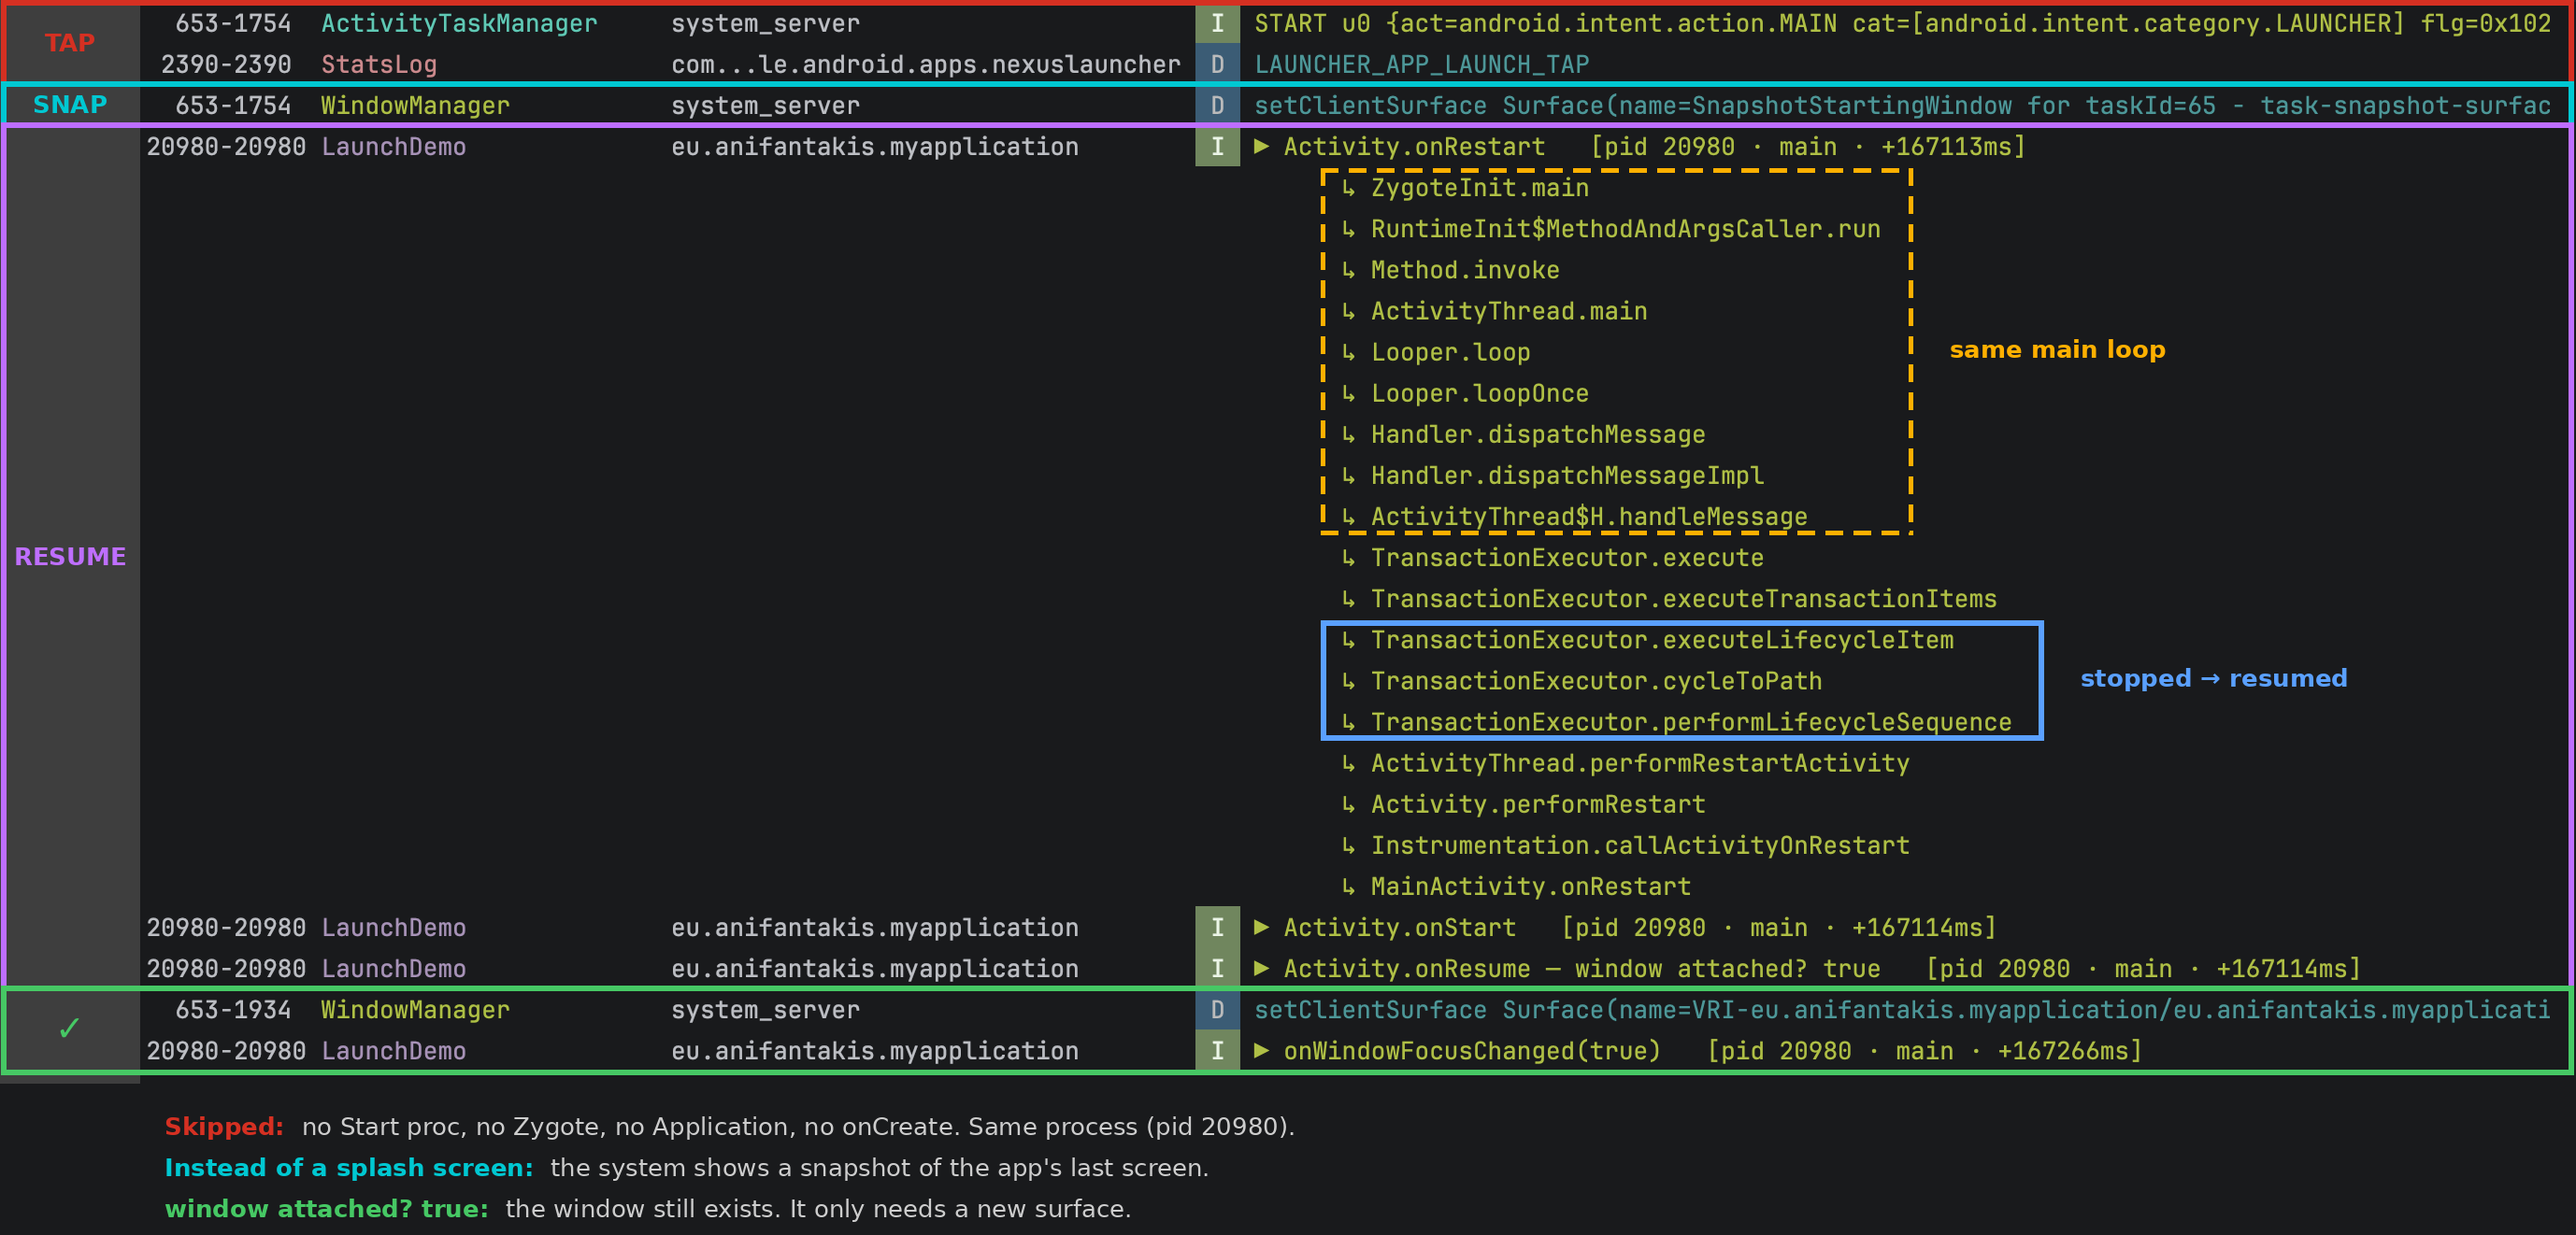
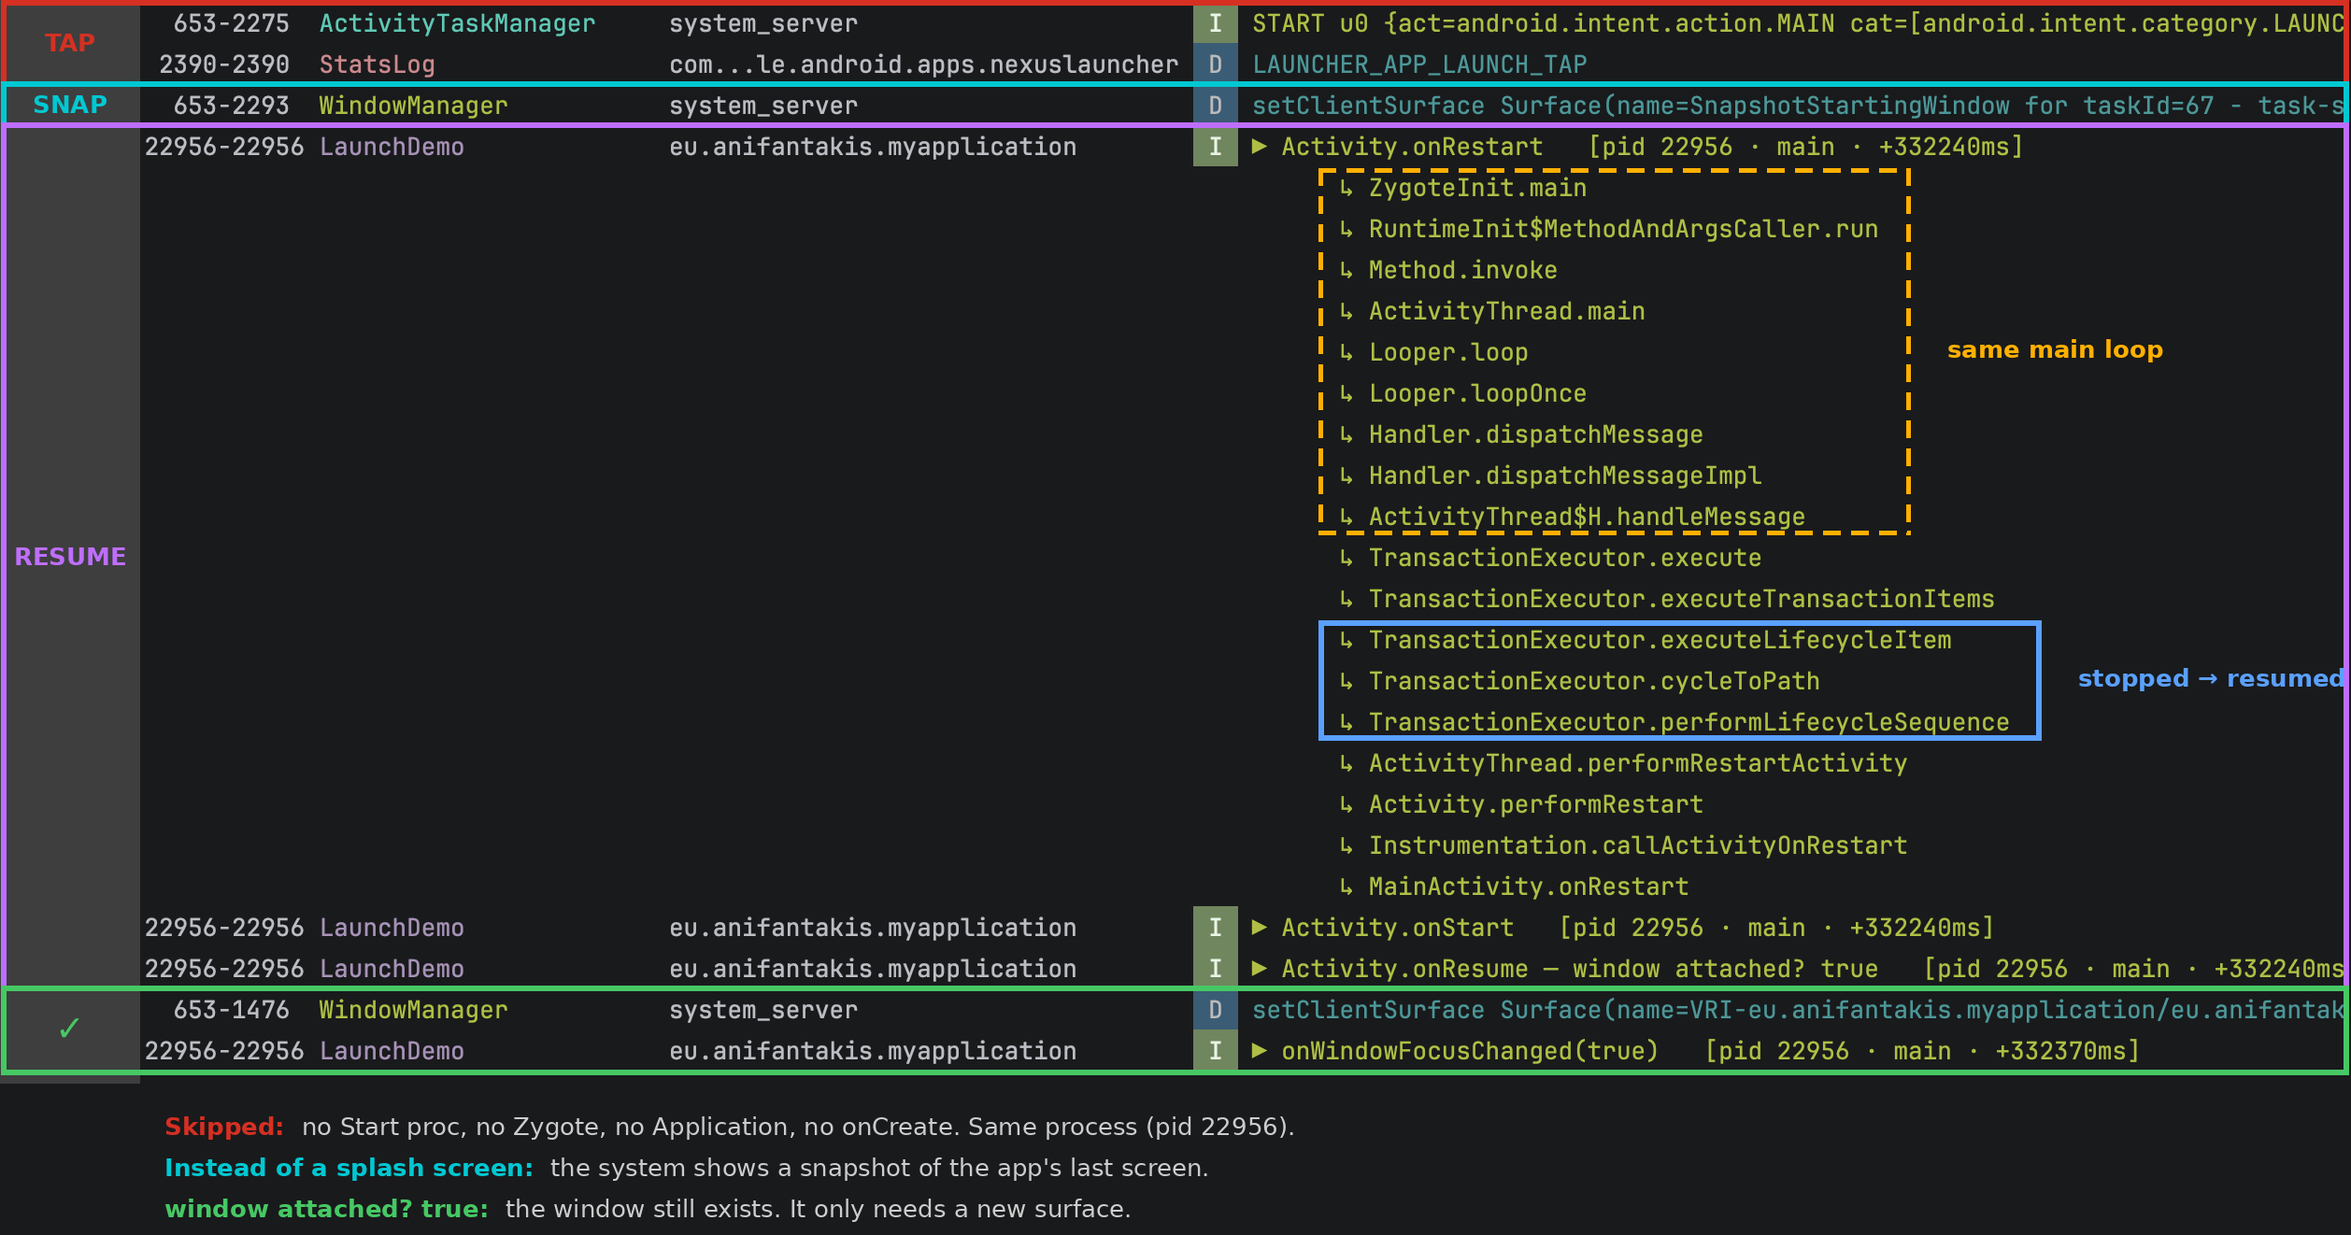
update MainActivity.kt and README.md to enhance lifecycle logging and documentation

Changed region(s): [[0.0, 0.0, 1.0, 0.8684], [0.062, 0.8994, 0.558, 0.9924], [0.744, 0.2791, 0.93, 0.3101]]

diff --git a/app/src/main/java/eu/anifantakis/myapplication/MainActivity.kt b/app/src/main/java/eu/anifantakis/myapplication/MainActivity.kt
@@ -33,7 +33,8 @@ class MainActivity : ComponentActivity() {
     override fun onCreate(savedInstanceState: Bundle?) {
         super.onCreate(savedInstanceState)
         // Path = Step 5: H.handleMessage → TransactionExecutor → LaunchActivityItem → performLaunchActivity → … → onCreate
-        LaunchTrace.mark("Activity.onCreate", showPath = true)
+        // "saved state? true" = the Activity is being re-created (rotation, or a warm start)
+        LaunchTrace.mark("Activity.onCreate — saved state? ${savedInstanceState != null}", showPath = true)
         enableEdgeToEdge()
         setContent {
             var loaded by remember { mutableStateOf(false) }
@@ -60,6 +61,14 @@ class MainActivity : ComponentActivity() {
     override fun onResume()  { super.onResume();  LaunchTrace.mark("Activity.onResume — window attached? ${window.decorView.isAttachedToWindow}") }
     override fun onPause()   { LaunchTrace.mark("Activity.onPause"); super.onPause() }
     override fun onStop()    { LaunchTrace.mark("Activity.onStop — surface will be released"); super.onStop() }
+
+    // Never printed when the process is killed (swipe, force stop, low memory).
+    // Printed when the system destroys only the Activity: rotation, finish(), "Don't keep activities".
+    override fun onDestroy() {
+        LaunchTrace.mark("Activity.onDestroy — config change? $isChangingConfigurations · finishing? $isFinishing", showPath = true)
+        super.onDestroy()
+    }
+
     override fun onWindowFocusChanged(hasFocus: Boolean) {
         super.onWindowFocusChanged(hasFocus); LaunchTrace.mark("onWindowFocusChanged($hasFocus)")
     }

diff --git a/app/src/main/java/eu/anifantakis/myapplication/MyApplication.kt b/app/src/main/java/eu/anifantakis/myapplication/MyApplication.kt
@@ -1,11 +1,7 @@
 package eu.anifantakis.myapplication
 
 import android.app.Application
-import android.content.ContentProvider
-import android.content.ContentValues
 import android.content.Context
-import android.database.Cursor
-import android.net.Uri
 
 class MyApplication : Application() {
 

diff --git a/README.md b/README.md
@@ -1,8 +1,8 @@
 # Android Launch Lifecycle Demo
 
-A small app that shows what happens to an app process during its life: **cold start, background, hot
-start, and death**. The app logs each step with the tag `LaunchDemo`. One Logcat filter mixes these lines
-with Android's own lines, in order.
+A small app that shows what happens to an app process during its life: **cold start, rotation, background,
+hot start, and death**. The app logs each step with the tag `LaunchDemo`. One Logcat filter mixes these
+lines with Android's own lines, in order.
 
 ## How to run it
 
@@ -11,9 +11,10 @@ with Android's own lines, in order.
 3. Stop the app: `adb shell am force-stop eu.anifantakis.myapplication`
 4. Clear Logcat.
 5. Tap the app icon → **cold start**.
-6. Press Home → **background**.
-7. Tap the icon again → **hot start**.
-8. Open Recents and swipe the app away → **killed**.
+6. Rotate the screen → **the Activity is re-created**.
+7. Press Home → **background**.
+8. Tap the icon again → **hot start**.
+9. Open Recents and swipe the app away → **killed**.
 
 > Tap the icon instead of pressing Run. Run reinstalls the app and starts it from the shell, not from the launcher.
 
@@ -42,7 +43,7 @@ All screenshots come from one session on an Android 17 (API 37) emulator, with `
 | `653` | `system_server`: ActivityTaskManager (ATMS), ActivityManager (AMS), WindowManager |
 | `433` | `zygote64`: the parent of every app process |
 | `2390` | The launcher (home screen and Recents) |
-| `20980` | The app |
+| `22956` | The app |
 
 ## 1. Cold start
 
@@ -56,24 +57,24 @@ Red **1–5** are the steps. Amber **3** is the main loop, inside the call paths
 - `LAUNCHER_APP_LAUNCH_TAP` — the launcher's own line. It comes *after* `START`, because the Binder call is
   synchronous. Logcat shows when a line was written, not when the work started.
 
-**2 · Create the process**
-- `Forked child process 20980` — Zygote (`433`) forks itself. Copy-on-Write makes this fast.
-- `Created cgroup …/pid_20980` — the PID is now `20980`: the child writes this itself, while it gets its own
+**2 · The identity: create the process**
+- `Forked child process 22956` — Zygote (`433`) forks itself. Copy-on-Write makes this fast.
+- `Created cgroup …/pid_22956` — the PID is now `22956`: the child writes this itself, while it gets its own
   identity (uid, SELinux label, storage, name). This is *specialization*.
-- `Start proc 20980:…/u0a233` — AMS logs when Zygote sends back the pid. `u0a233` = user 0, uid `10233`.
+- `Start proc 22956:…/u0a233` — AMS logs when Zygote sends back the pid. `u0a233` = user 0, uid `10233`.
   Each process logs on its own, so this line can come after the child's lines.
-- `Process 20980 created for …` — specialization is done.
+- `Process 22956 created for …` — specialization is done.
 - `setClientSurface … Splash Screen` — the system draws the splash screen at the same time.
 - `Using … CollectorTypeCMC GC.` — the first line with the app's own name as the tag.
 
-About 40 ms from `START` to a ready process. The rest of a cold start is initialization.
+Only a few dozen milliseconds from `START` to a ready process. The rest of a cold start is initialization.
 
 **3 · The heartbeat** (amber box)
 The call path starts at `ZygoteInit.main`: the app still runs inside Zygote's `main()`, because there is no
 `exec()`. `Looper.loop` → `H.handleMessage`: the main thread runs a loop and gets its work as messages.
 There are no Binder frames: Binder threads only post messages to the main thread.
 
-**4 · bindApplication**
+**4 · The DNA: bindApplication**
 - `Configuring clns-9 for … base.apk` — the app's own code is loaded for the first time.
 - `▶ Application.attachBaseContext(ContextImpl@e6aa586)` — the system creates the `Application` and gives
   it its `Context`.
@@ -81,27 +82,42 @@ There are no Binder frames: Binder threads only post messages to the main thread
   use this to start early.
 - `▶ Application.onCreate` — your init code, before any Activity exists.
 
-**5 · Launch the Activity**
-- `▶ Activity.attachBaseContext(ContextImpl@c6d262f)` — a new `Context`, not the Application's.
-- `▶ Activity.onCreate` — the same main loop, then `TransactionExecutor` → `LaunchActivityItem`:
-  ATMS sent a transaction.
+**5 · The face: launch the Activity**
+- `▶ Activity.attachBaseContext(ContextImpl@c6d262f)` — a new `Context`, not the Application's (`@e6aa586`).
+- `▶ Activity.onCreate — saved state? false` — a brand-new Activity. The same main loop, then
+  `TransactionExecutor` → `LaunchActivityItem`: ATMS sent a transaction.
 - `▶ onStart`, `▶ onResume — window attached? false` — resumed, but not on screen yet.
 
 **✓ · On screen**
-- `setClientSurface … MainActivity` — the window gets its surface, about 320 ms after `onResume()`.
-- `Displayed +705ms` — the first frame (TTID, *time to initial display*).
-- `Fully drawn +1s139ms` — the app says its content is ready with `ReportDrawnWhen` (TTFD, *time to full display*).
+- `setClientSurface … MainActivity` — the window gets its surface, a few hundred ms after `onResume()`.
+- `Displayed +725ms` — the first frame (TTID, *time to initial display*).
+- `Fully drawn +1s157ms` — the app says its content is ready with `ReportDrawnWhen` (TTFD, *time to full display*).
 
-## 2. Press Home
+## 2. Rotate the screen
+
+![Rotation: the Activity is destroyed and created again in the same process](docs/rotation-steps.png)
+
+- **DESTROY** — `onPause()`, `onStop()`, then `onDestroy — config change? true · finishing? false`.
+  The path shows `ActivityRelaunchItem` → `handleRelaunchActivity` → `handleDestroyActivity`.
+- **CREATE** — the same `ActivityRelaunchItem` now goes to `handleLaunchActivity`: a new Activity, with a new
+  `ContextImpl` (`@9fa421d`), `saved state? true`, and a new window (`window attached? false`).
+- **✓** — the new window gets its surface and the focus.
+
+Same pid (`22956`): no `START`, no `Start proc`, no Zygote, no `Application`. The system replaces **only the
+Activity**, in one transaction. `onDestroy()` runs, and the new Activity gets the old one's saved state.
+That state is what `rememberSaveable` and `SavedStateHandle` keep for you.
+
+## 3. Press Home
 
 ![The Home button sends the app to the background: HOME, PAUSE, STOP](docs/home-steps.png)
 
-- **HOME** — `START … category.HOME … result code=2`: Home is just another start. The launcher is already
-  running, so its task is only brought to the front.
+- **HOME** — `START … category.HOME`: Home is just another start. The launcher is already running, so its
+  task is only brought to the front.
 - **PAUSE** — `onPause()` right away: the app lost the foreground.
 - **STOP** — `onStop()` about 1 s later: the app is no longer visible, after the animation ends.
 
-The process stays alive: no `Killing`, no Zygote line. You can check how important it is now:
+No `onDestroy()`, no `Killing`, no Zygote line: the Activity and the process stay alive. You can check how
+important the process is now:
 
 ```
 adb shell 'cat /proc/$(pidof eu.anifantakis.myapplication)/oom_score_adj'
@@ -109,7 +125,7 @@ adb shell 'cat /proc/$(pidof eu.anifantakis.myapplication)/oom_score_adj'
 
 `0` on screen, higher after Home (often `700`). Higher numbers are killed first.
 
-## 3. Open it again: hot start
+## 4. Open it again: hot start
 
 ![The app comes back from the background: TAP, SNAP, RESUME](docs/hot-start-steps.png)
 
@@ -130,23 +146,29 @@ No `Start proc`, no Zygote, no `Application`, no `onCreate()`.
 To see a warm start, turn on **Developer options › Don't keep activities**, press Home, then tap the icon.
 (Since Android 12, Back on the first Activity works like Home, so it also gives a hot start.)
 
-## 4. Swipe it away in Recents
+## 5. Swipe it away in Recents
 
-![The app is swiped away in Recents and its process is killed: RECENTS, SWIPE, KILL, GONE](docs/kill-steps.png)
+![The app is swiped away in Recents and its process is killed: RECENTS, SWIPE, DESTROY, KILL, GONE](docs/kill-steps.png)
 
 - **RECENTS** — the app loses focus, but there is no `onPause()`: in Recents it is still resumed.
-- **SWIPE** — `onPause()`, `onStop()`, and the launcher asks ATMS to remove the task.
-- **KILL** — `Killing … (adj 905): remove task`. Nothing is left in the process, so AMS kills it.
+- **SWIPE** — the launcher asks ATMS to remove the task. The app gets `onPause()` and `onStop()`.
+- **DESTROY** — removing the task also **finishes** the Activity: `onDestroy — finishing? true`. The path
+  shows `DestroyActivityItem`, a transaction from ATMS.
+- **KILL** — `Killing … (adj 905): remove task`. The process is now empty, so AMS kills it.
   `adj 905` means *cached*: the first to go.
-- **GONE** — the cgroup is removed, WindowManager learns the window died (`WIN DEATH`), and Zygote, the
-  parent, reports `signal 9`.
+- **GONE** — Zygote, the parent, reports `signal 9`, and the cgroup is removed.
 
-There is no `onDestroy()`. `onStop()` can be the last callback your app gets.
+**When is `onDestroy()` skipped?** When the process dies first:
+- **Force stop** (the Stop button or `am force-stop`, with the app on screen): no `onPause()`, `onStop()` or
+  `onDestroy()` at all. AMS kills first (`adj 0`), ATMS cleans up after (`app died, no saved state`), and
+  `Got obituary` shows Binder telling AMS. The app is also put in the *stopped* state: no alarms, jobs or
+  broadcasts until the user opens it again.
+- **The system kills a background process** to free memory. Try it: press Home, run
+  `adb shell am kill eu.anifantakis.myapplication`, then tap the icon. The old Activity never gets
+  `onDestroy()`. You get a full cold start, but with `Activity.onCreate — saved state? true`: the system
+  kept the Activity's saved state even though the process died.
 
-**A force stop is different** (the Stop button or `am force-stop`, with the app on screen): no `onPause()`
-or `onStop()` at all, `adj 0`, AMS kills first and ATMS cleans up after (`app died, no saved state`), and
-`Got obituary` shows Binder telling AMS. The app is also put in the *stopped* state: no alarms, jobs or
-broadcasts until the user opens it again.
+So `onStop()` is the last callback you can count on. Save important state there, not in `onDestroy()`.
 
 ## How it works: LaunchTrace
 
@@ -160,11 +182,11 @@ With `showPath = true`, it also writes the call path:
 
 ```kotlin
 private fun callPath(): String = Throwable().stackTrace
-  .filter { f -> keep.any { f.className.startsWith(it) } && !f.className.startsWith(LaunchTrace::class.java.name) }
-  .map { "${it.className.substringAfterLast('.')}.${it.methodName}" }
-  .distinct()
-  .reversed()
-  .joinToString("\n") { "      ↳ $it" }
+    .filter { f -> keep.any { f.className.startsWith(it) } && !f.className.startsWith(LaunchTrace::class.java.name) }
+    .map { "${it.className.substringAfterLast('.')}.${it.methodName}" }
+    .distinct()
+    .reversed()
+    .joinToString("\n") { "      ↳ $it" }
 ```
 
 It takes the current stack trace (without throwing), keeps only the frames in the `keep` list (Zygote,
@@ -180,7 +202,7 @@ the order. You read it from `ZygoteInit.main` down to your callback.
 | [LaunchTrace.kt](app/src/main/java/eu/anifantakis/myapplication/LaunchTrace.kt) | The logger: `mark()`, `markOnce()`, `callPath()`, `Context.describe()`. |
 | [MyApplication.kt](app/src/main/java/eu/anifantakis/myapplication/MyApplication.kt) | Marks `attachBaseContext` (with call path) and `onCreate`. |
 | [DemoInitProvider.kt](app/src/main/java/eu/anifantakis/myapplication/DemoInitProvider.kt) | An empty `ContentProvider`, to show that providers run before `Application.onCreate()`. |
-| [MainActivity.kt](app/src/main/java/eu/anifantakis/myapplication/MainActivity.kt) | Marks every lifecycle callback. Fakes a 400 ms load, then reports "fully drawn". |
+| [MainActivity.kt](app/src/main/java/eu/anifantakis/myapplication/MainActivity.kt) | Marks every lifecycle callback, from `onCreate` (with `saved state?`) to `onDestroy` (with `config change?` and `finishing?`). Fakes a 400 ms load, then reports "fully drawn". |
 | [AndroidManifest.xml](app/src/main/AndroidManifest.xml) | Registers the Application, the Activity and the provider. |
 
 Requirements: minSdk 28, compileSdk and targetSdk 37.
